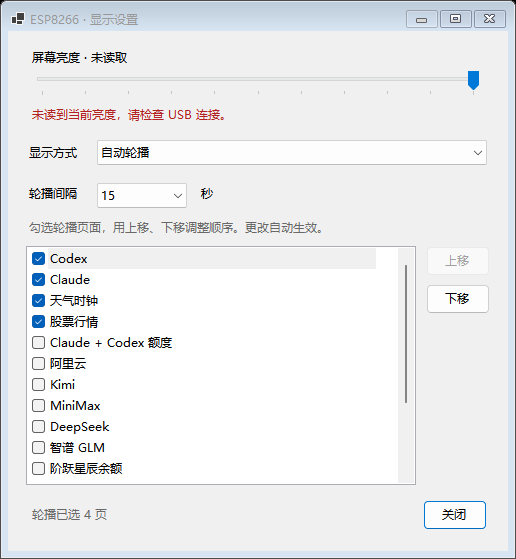
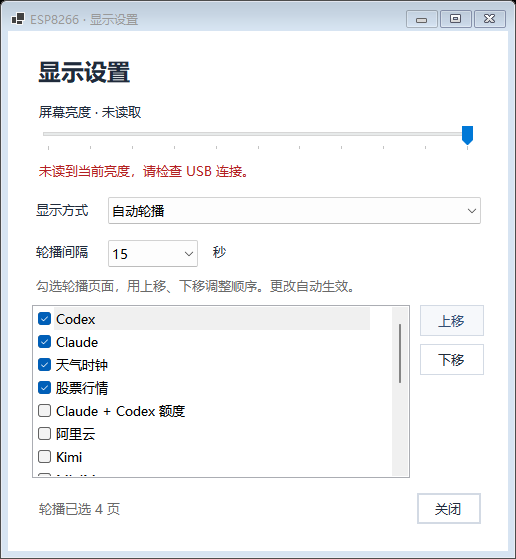
docs: audit release media and refresh current installation and interface captures

diff --git a/tools/doc-capture/ReleaseMedia.cs b/tools/doc-capture/ReleaseMedia.cs
@@ -13,11 +13,16 @@ internal static class ReleaseMedia
     internal static string EspVersion => File.ReadAllText(Path.Combine("firmware", "VERSION")).Trim();
     internal static void Run(string output, bool evergreen=false)
     {
-        string releases=JsonSerializer.Serialize(new[]{
+        using var catalog=JsonDocument.Parse(File.ReadAllText("download-catalog.json"));
+        var downloads=catalog.RootElement.GetProperty("downloads");
+        object GalleryAsset(string category) {var item=downloads.GetProperty(category);return new{name=item.GetProperty("file").GetString(),size=item.GetProperty("size").GetInt64(),digest="sha256:"+item.GetProperty("sha256").GetString(),browser_download_url=$"https://github.com/yaoyouzhong/AI-bot/releases/download/{item.GetProperty("tag").GetString()}/{item.GetProperty("file").GetString()}"};}
+        string sums=string.Join("\n",new[]{"painting","calligraphy"}.Select(category=>{var item=downloads.GetProperty(category);return item.GetProperty("sha256").GetString()+"  "+item.GetProperty("file").GetString();}));
+        string releases=JsonSerializer.Serialize(new object[]{
             UpdateSelfTest.Release("bridge",BridgeVersion,$"AIBotBridge-{BridgeVersion}-setup-win-x64.exe",[]),
             UpdateSelfTest.Release("tab5",Tab5Version,$"TAB5-upgrade-{Tab5Version}.zip",[]),
-            UpdateSelfTest.Release("esp8266",EspVersion,$"AI-bot-{EspVersion}-firmware-materials.zip",[])});
-        var handler=new UpdateSelfTest.Handler{Reply=(_,_)=>Task.FromResult(new HttpResponseMessage(HttpStatusCode.OK){Content=new StringContent(releases,Encoding.UTF8,"application/json")})};
+            UpdateSelfTest.Release("esp8266",EspVersion,$"AI-bot-{EspVersion}-firmware-materials.zip",[]),
+            new{tag_name=downloads.GetProperty("painting").GetProperty("tag").GetString(),draft=false,prerelease=false,body="Published collection fixture",published_at="2026-10-09T00:00:00Z",assets=new object[]{GalleryAsset("painting"),GalleryAsset("calligraphy"),new{name="SHA256SUMS.txt",size=sums.Length,browser_download_url="https://github.com/yaoyouzhong/AI-bot/releases/download/"+downloads.GetProperty("painting").GetProperty("tag").GetString()+"/SHA256SUMS.txt"}}}});
+        var handler=new UpdateSelfTest.Handler{Reply=(request,_)=>Task.FromResult(new HttpResponseMessage(HttpStatusCode.OK){Content=new StringContent(request.RequestUri!.AbsolutePath.EndsWith("/SHA256SUMS.txt")?sums:releases,Encoding.UTF8,"application/json")})};
         using var service=new UpdateService(handler);
         UpdateDevice[] devices=[new("bridge","电脑端 AI-bot","0.6.1","运行中",true,"bridge","安装程序",true),new("tab","M5Stack TAB5","0.2.149-ui","在线",true,"upgrade-tab5","在设备上确认安装",true),new("esp","ESP8266 小屏",EspFirmwareVersion.Legacy,"在线",true,"flash","USB，先备份再升级",true)];
         using(var form=new UpdateCenterForm(()=>devices,(_,_)=>throw new InvalidOperationException("Documentation must not install"),service)){
@@ -36,11 +41,11 @@ internal static class ReleaseMedia
         }
         // Counts match the published packs. These are UI-only fixture records,
         // not installed image data and not evidence of an import operation.
-        foreach(var (category,works,frames) in new[]{("painting",402,804),("calligraphy",411,3000)}){
+        foreach(var (category,works,frames) in new[]{("painting",366,860),("calligraphy",366,1782)}){
             var directory=Path.Combine(GalleryPack.Root,category);Directory.CreateDirectory(directory);
-            File.WriteAllText(Path.Combine(directory,"PACK.json"),JsonSerializer.Serialize(new GalleryPackManifest(1,"2026.10.07",category,works,frames,[]),JsonDefaults.Options));
+            File.WriteAllText(Path.Combine(directory,"PACK.json"),JsonSerializer.Serialize(new GalleryPackManifest(1,"2026.10.09",category,works,frames,[]),JsonDefaults.Options));
         }
-        using(var form=new GalleryPackForm()){Show(form);Save(form,"gallery-packs");form.Close();}
+        using(var form=new GalleryPackForm(service,_=>throw new InvalidOperationException("Documentation must not open links"))){Show(form);Save(form,"gallery-packs");form.Close();}
         if(evergreen) {
             var store=new DeviceRegistryStore(Path.Combine(AppPaths.GetFolderPath(Environment.SpecialFolder.ApplicationData),"promo-devices.json"));
             store.Migrate(null,false,false);

diff --git a/scripts/check_public_content.py b/scripts/check_public_content.py
@@ -17,6 +17,9 @@ RULES = {
 }
 # Individually reviewed documentation captures. Path AND bytes must match the record.
 REVIEWED_DOC_NAMES = frozenset({
+    'tab5-settings-info.png',
+    'tab5-clock-geometric.png',
+    'tab5-clock-star.png',
     'tab5-clock-0.png',
     'tab5-apps.png',
     'tab5-camera.png',

diff --git a/docs/SCREENSHOTS.md b/docs/SCREENSHOTS.md
@@ -15,6 +15,10 @@
 
 2026-10-07 同步至 Windows AI-bot 0.6.1 与 TAB5 0.2.149-ui。仅刷新显示版本变化的更新中心、设备中心及 TAB5 固件设置页，其他截图和视频沿用已复核素材。Windows 窗口和 TAB5 页面来自原生 WinForms/LVGL 代码的隔离渲染，使用固定演示数据，**不是硬件实拍，也不替代真机验收**。基础功能见 [.145 验收记录](TAB5-ACCEPTANCE-145.md)，本次补丁另见 [.149 BLE 验收记录](TAB5-BLE-GALLERY-148.md)。
 
+2026-10-11 补充审核：重新捕获当前 Windows 设备中心、各类安装与连接窗口、更新窗口及设置控件；刷新 TAB5 总览、模型页、应用入口和设置导航，补齐几何玩色、星轨与设备信息图。固件升级画面读取本版真实 .176 sidecar；“当前版本 .21”来自离线夹具，实际固件版本以镜像元数据为准，不作为真机版本证据。新图库和宣传视频未替换。[逐项审核](RELEASE-MEDIA-AUDIT-20261011.md)。
+
+Additional audit: current Windows controls and TAB5 overview/model/apps/settings frames are refreshed, with geometric/star faces and device information added. The upgrade view uses the actual .176 sidecar. Older installed-version labels are offline fixtures, not device or binary identities. New collection data and the historical film are retained unchanged.
+
 ## Windows 捕获
 
 `tools/doc-capture/DocCapture.cs` 在读取设置前启用公共测试隔离目录。不启动 BridgeRuntime、串口、HTTP 服务、账户刷新或授权浏览器，也不读取用户桌宠缓存。演示设备身份、账户额度、会话和音乐信息均为虚构样例。
@@ -31,7 +35,7 @@ dotnet tools/doc-capture/bin/Release/net8.0-windows10.0.19041.0/DocCapture.dll <
 ```
 
 - `--evergreen-media`：宣传视频专用的原生更新、设备中心与图库控件；具体版本显示为“已安装／可用更新”等占位文字，不改运行程序的版本检查或显示。
-- `--release-current`：使用真实更新窗口与图库管理窗口，模拟发布查询、旧版本设备和已安装图库的元数据。`update-center.png` 是“发现可用更新”的示例；`gallery-packs.png` 的 402/411 件状态来自与发布包一致的固定数据，不是另一次导入验证。不下载、安装或刷机。
+- `--release-current`：使用真实更新窗口与图库管理窗口，模拟发布查询、旧版本设备和已安装图库的元数据。`update-center.png` 是“发现可用更新”的示例；`gallery-packs.png` 的 366/366 件状态来自与发布包一致的固定数据，不是另一次导入验证。不下载、安装或刷机。
 - `--release-ui`：当前托盘菜单、设备中心、添加设备、小屏刷机、TAB5 首刷、配对、连接与升级窗口；TAB5 固件演示版本从 `versions/TAB5` 读取，不依赖文档中的手写版本。
 - `--quota-api`：固定的 DeepSeek 设置界面，输出 `api-settings-deepseek.png` 后用作公开 `api-settings.png`。
 - `--design-pet`：原生镜像和设置窗口；使用批准的项目 GIF 作为桌宠设计预览和虚构曲目的封面。它不改变已安装程序或固件的默认形象。
@@ -84,6 +88,6 @@ The earlier .145 TAB5 previews cover Codex Direct, Annual Dots in three colors, 
 
 The earlier gallery update added 26 reviewed native TAB5 captures: nine freshly rendered overview/apps/tasks/settings/pet/classic-clock frames and 17 selected from the current film capture library. They cover the ordinary pages and draft workflows as well as highlights. Fresh LVGL captures use source commit `02df4f2dbcb1c8535af7f5ffd518ae39f52844c1`, a synthetic `.145` label and original project pet artwork. The existing ESP8266 mirror frames were also reviewed across all displayed page groups; they are not new physical-device captures. This update changes documentation and reviewed media only.
 
-Art attribution: Lin Liang, *Peacocks and Bamboo*, Cleveland Museum of Art 1964.242, CC0; Wang Sishi, running-script seven-character poem scroll, Tokyo National Museum / ColBase TB-6, CC BY 4.0. Source and license links appear in the table above. Images were resized and laid out for the gallery; portrait native frames were rotated upright. These licenses remain separate from the project's MIT terms, with no museum endorsement.
+Current art attribution: Lin Liang, *Peacocks and Bamboo*, Cleveland Museum of Art 1964.242, CC0; attributed Wang Xizhi / Tang copy, *Timely Clearing After Snowfall*, National Palace Museum Taipei collection 19, with the published public-domain source record. The Wang Sishi / ColBase TB-6 CC BY 4.0 example belongs to historical exports. Source and license links appear in the table above. Images were resized and laid out for the gallery; portrait native frames were rotated upright. These licenses remain separate from the project's MIT terms, with no museum endorsement.
 
 The earlier batch contained 52 regenerated or added screenshots. A subsequent audit found that the tray fixture still used the retired TrayMenu factory; it now calls the production DeviceCenterMenu.Build factory, and the corrected grouped menu was recaptured and visually checked. Exact bytes and paths remain enforced in `licenses/materials.json`. Fonts/themes may affect cross-machine appearance. Historical diagrams are identified as illustrations, and private backups/runtime data are not published. See the separate hardware acceptance and video provenance records.

diff --git a/docs/RELEASE-MEDIA-AUDIT-20261011.md b/docs/RELEASE-MEDIA-AUDIT-20261011.md
@@ -1,0 +1,63 @@
+# 本次发布素材审核 / Release media audit
+
+2026-10-11，桥接 0.6.5、TAB5 0.2.176-ui、ESP8266 0.5.2。结论：截图和文字按功能变化更新，宣传视频及封面仍为 2026-10-09 版，没有全部重做。
+
+| 类别 | 核验与处理 | 状态 |
+| --- | --- | --- |
+| 公开截图 | 全部 87 张逐图查看、比对引用和已登记哈希；本次变更 42 张，保留 45 张未变化或明确历史的素材 | 完成 |
+| 本版新功能图 | 九款表盘、时钟计时、日期倒计时、统一返回和标题、总览／模型图标、显示模式、桥接设置、图库窗口、安装与升级窗口 | 已刷新 |
+| 功能／平台介绍 | 中英文 README、功能图鉴、图库能力和许可来源、平台与版本专属验收边界 | 已同步 |
+| 安装与开发者说明 | 更新下载版本／包名／校验链接及首刷、升级、配对、原字库与旧图库保留说明；源码页切到 .176，核对源码与应用哈希 | 已同步 |
+| 图库内容 | 正式 2026.10.09 名画／书法各 366 件；新作品与整理中的导读、原文继续留在本地 | 本次不发布新内容 |
+| 宣传视频和封面 | 字节与上一正式版一致；仍为 108 秒产品介绍，未覆盖新时钟、倒计时、导航和已读同步 | 尚未针对本版更新，已在中英文页面明确标注 |
+
+截图来自生产 WinForms／LVGL 的隔离演示数据，不是硬件照片。图库窗口使用正式版元数据夹具，不导入或下载新图库。固件升级截图读取本版实际 sidecar，旧的当前版本标签属于夹具，不作为实机版本或跨分区兼容证明。Windows／Mac 新包构建测试与独立设备验收分别记录；Apple Music 实际播放和 ESP8266 .5.2 实机验收仍待完成。
+
+视频没有因本次审核重制，因此不能称为本版完整功能宣传片。现有视频与封面保留历史来源和署名，后续重制应补充本次改变的镜头，同时保持新图库的独立发布范围。
+
+All 87 public screenshots were visually reviewed and their registered fingerprints checked. Forty-two changed captures are refreshed; forty-five unchanged or historical captures are retained. Current descriptions, installation routes, developer-source identities and acceptance limits are synchronized. The 108-second film and cover are byte-identical to the previous stable edition and have not been updated for the new clocks, countdowns, navigation or read synchronization. Their historical scope is explicitly labelled. No new collection is released.
+
+## 本次刷新文件 / Refreshed files
+
+- `docs/assets/screens/add-device.png`
+- `docs/assets/screens/api-settings.png`
+- `docs/assets/screens/authorization-empty.png`
+- `docs/assets/screens/cycle-settings.png`
+- `docs/assets/screens/device-center-accounts.png`
+- `docs/assets/screens/device-center-bridge.png`
+- `docs/assets/screens/device-center-esp8266.png`
+- `docs/assets/screens/device-center.png`
+- `docs/assets/screens/device-control.png`
+- `docs/assets/screens/firmware-flasher.png`
+- `docs/assets/screens/gallery-packs.png`
+- `docs/assets/screens/mirror-window.png`
+- `docs/assets/screens/quota-trend-empty.png`
+- `docs/assets/screens/settings.png`
+- `docs/assets/screens/tab5-apps.png`
+- `docs/assets/screens/tab5-clock-0.png`
+- `docs/assets/screens/tab5-clock-1.png`
+- `docs/assets/screens/tab5-clock-2.png`
+- `docs/assets/screens/tab5-clock-3.png`
+- `docs/assets/screens/tab5-clock-4.png`
+- `docs/assets/screens/tab5-clock-countdown.png`
+- `docs/assets/screens/tab5-clock-geometric.png`
+- `docs/assets/screens/tab5-clock-lcd.png`
+- `docs/assets/screens/tab5-clock-picker.png`
+- `docs/assets/screens/tab5-clock-solar.png`
+- `docs/assets/screens/tab5-clock-star.png`
+- `docs/assets/screens/tab5-connection.png`
+- `docs/assets/screens/tab5-countdown-settings.png`
+- `docs/assets/screens/tab5-date-countdown.png`
+- `docs/assets/screens/tab5-first-install.png`
+- `docs/assets/screens/tab5-overview.png`
+- `docs/assets/screens/tab5-quick.png`
+- `docs/assets/screens/tab5-quota.png`
+- `docs/assets/screens/tab5-settings-connection.png`
+- `docs/assets/screens/tab5-settings-content.png`
+- `docs/assets/screens/tab5-settings-firmware.png`
+- `docs/assets/screens/tab5-settings-info.png`
+- `docs/assets/screens/tab5-settings-screen.png`
+- `docs/assets/screens/tab5-upgrade.png`
+- `docs/assets/screens/tab5-usb-pairing.png`
+- `docs/assets/screens/update-center.png`
+- `docs/assets/screens/weather-settings.png`

diff --git a/docs/development/TAB5-SOURCE.md b/docs/development/TAB5-SOURCE.md
@@ -2,22 +2,22 @@
 
 普通用户按[图文指南](../INSTALL.zh.md)选择首刷或升级包，无需源码。
 
-## 当前版本：0.2.149-ui
+## 当前版本：0.2.176-ui
 
-下载 [TAB5 0.2.149-ui 源码与构建快照](https://github.com/yaoyouzhong/AI-bot/releases/download/tab5-v0.2.149-ui/TAB5-0.2.149-ui-source.zip)，校验同一发布页的 [SHA256SUMS.txt](https://github.com/yaoyouzhong/AI-bot/releases/download/tab5-v0.2.149-ui/SHA256SUMS.txt)。
+下载 [TAB5 0.2.176-ui 源码与构建快照](https://github.com/yaoyouzhong/AI-bot/releases/download/tab5-v0.2.176-ui/TAB5-0.2.176-ui-source.zip)，校验同一发布页的 [SHA256SUMS.txt](https://github.com/yaoyouzhong/AI-bot/releases/download/tab5-v0.2.176-ui/SHA256SUMS.txt)。
 
 | 身份 | 值 |
 | --- | --- |
-| 源码提交 | `08de19b62e2e36cad0aac6d26b5e21e735ece401` |
[2 lines of base64/hex data omitted]
+| 源码提交 | `fff1687932c0c261cb769613879a288f1103d48a` |
[2 lines of base64/hex data omitted]
 | ESP-IDF | 5.4.2，commit `f5c3654a1c2d2a01f7f67def7a0dc48e691f63c0` |
 
 以包内 `SOURCE-MANIFEST.json`、`source/README.md`、`dependencies.lock`、实际 `sdkconfig` 和 SDK 差异记录为准。准备相应官方 ESP-IDF 环境后按工程说明构建 `source/firmware/`。源码快照不是刷机文件；依赖锁定不等于已在独立环境复现逐字节相同的 BIN，清单明确记录 `reproducibleBinaryVerified: false`。
 
-自有源码 MIT，组件、字体与词库保留原许可。图库支持包含在固件中，艺术图像另行下载；许可和镜像验收分别见[许可范围](../TAB5-LICENSE-SCOPE.md)与[.149 验收](../TAB5-BLE-GALLERY-148.md)。
+自有源码 MIT，组件、字体与词库保留原许可。图库支持包含在固件中，艺术图像另行下载；许可和镜像验收分别见[许可范围](../TAB5-LICENSE-SCOPE.md)与[本版验证边界](../RELEASE-0.6.5.md)。
 
-The current developer archive is 0.2.149-ui and matches the source/application identities above. Check the release checksum, then follow the included manifest, README, dependency lock, sdkconfig and SDK patch with ESP-IDF 5.4.2. It is not a flashing package; byte-identical independent reproduction remains unverified. Own code is MIT, third-party terms remain intact, and artwork collections are separate.
+The current developer archive is 0.2.176-ui and matches the source/application identities above. Check the release checksum, then follow the included manifest, README, dependency lock, sdkconfig and SDK patch with ESP-IDF 5.4.2. It is not a flashing package; byte-identical independent reproduction remains unverified. Own code is MIT, third-party terms remain intact, and artwork collections are separate.
 
 <details>
 <summary>历史 0.2.89-ui 快照 / Historical snapshot</summary>

diff --git a/docs/FIRMWARE_PACKAGE.md b/docs/FIRMWARE_PACKAGE.md
@@ -2,11 +2,11 @@
 
 具体刷写步骤见 [Windows 刷机图解](FLASH.zh.md)或 [Mac 刷机指南](FLASH_MAC.zh.md)，本文侧重分发材料与重建。
 
-**本包仅适用于 ESP8266，不含 TAB5 首次安装镜像或 TAB5 升级 BIN。** TAB5 首刷使用完整 `TAB5-first-install-0.2.149-ui.zip`，已有 AI-bot 使用 `aibot_tab5.bin` 与说明 sidecar，见[双硬件刷机指南](INSTALL.zh.md)。
+**本包仅适用于 ESP8266，不含 TAB5 首次安装镜像或 TAB5 升级 BIN。** TAB5 首刷使用完整 `TAB5-first-install-0.2.176-ui.zip`，已有 AI-bot 使用 `aibot_tab5.bin` 与说明 sidecar，见[双硬件刷机指南](INSTALL.zh.md)。
 
 This archive covers ESP8266 only. TAB5 uses a separate full first-install ZIP or application upgrade BIN; the formats are not interchangeable.
 
-当前公开 ESP8266 0.5.0 固件材料包包含 `firmware.bin`、AI-bot 固件源码、实际构建所用的
+当前公开 ESP8266 0.5.2 固件材料包包含 `firmware.bin`、AI-bot 固件源码、实际构建所用的
 Arduino core/库/PlatformIO 平台源码和随附 SDK 文件、许可、依赖版本及校验清单。
 不含设备 Flash 备份、Wi-Fi 信息、私人图片或用户配置，也不包含主机编译器。
 依赖材料排除不参与此固件构建的示例、测试及独立上传工具；保留 core、库、
@@ -43,7 +43,7 @@ PlatformIO 可能需要联网安装锁定的平台和编译工具。`rebuild.ini
 
 ## English
 
-The published ESP8266 0.5.0 materials package contains the firmware BIN, corresponding AI-bot/core/library
+The published ESP8266 0.5.2 materials package contains the firmware BIN, corresponding AI-bot/core/library
 sources, platform scripts, bundled SDK files, notices, exact dependency versions
 and SHA-256 manifest. It contains no device dump, credentials, private artwork or
 host compiler. Install PlatformIO 6.1.18 and run the command above from the unpacked

diff --git a/docs/PRODUCT_VIDEO.md b/docs/PRODUCT_VIDEO.md
@@ -1,5 +1,9 @@
 # 产品介绍视频 / Product introduction video
 
+2026-10-11 审核：此片及封面保留 2026-10-09 版本，未针对桥接 0.6.5／TAB5 .176 重新制作。新增时钟、两类倒计时、导航和已读同步没有在此片完整展示；不能称为本版最新功能全览。最新内容见 [本次发布说明](RELEASE-0.6.5.md)与 [功能图鉴](FEATURES.zh.md)。
+
+Audit 2026-10-11: the film and cover retain the 2026-10-09 edition. They have not been revised for bridge 0.6.5 / TAB5 .176 and do not fully show new clocks, countdowns, navigation or read synchronization. Use the current release record and feature guide for those changes.
+
 2026-10-09 本次发布同步：保持已批准的 108 秒分镜、转场与原音轨，替换 TAB5 .156 的周额度七等分、天气／电脑状态／音乐、Codex 直达和三个月历画面，以及当前 Windows 设备中心／更新控件。图库镜头改为 366 件名画、366 件中国书法的年度精选集，并使用当前桥接候选的实际隔离导入截图。未变化镜头沿用历史来源；不冒称新的硬件实拍。新 MP4 已完成导出与本地审阅，主页和本页的 GitHub 原生播放器附件已同步为本次成片。
 
 2026-10-09 candidate revision retains the approved 108-second timeline, transitions and original audio. Changed native TAB5 .156 quota, daily information, music, Codex Direct and calendar views, current Windows controls and the actual isolated 366 + 366 curated import are refreshed. Unchanged footage keeps historical provenance. The native GitHub attachment and the player below are synchronized with the current export.
